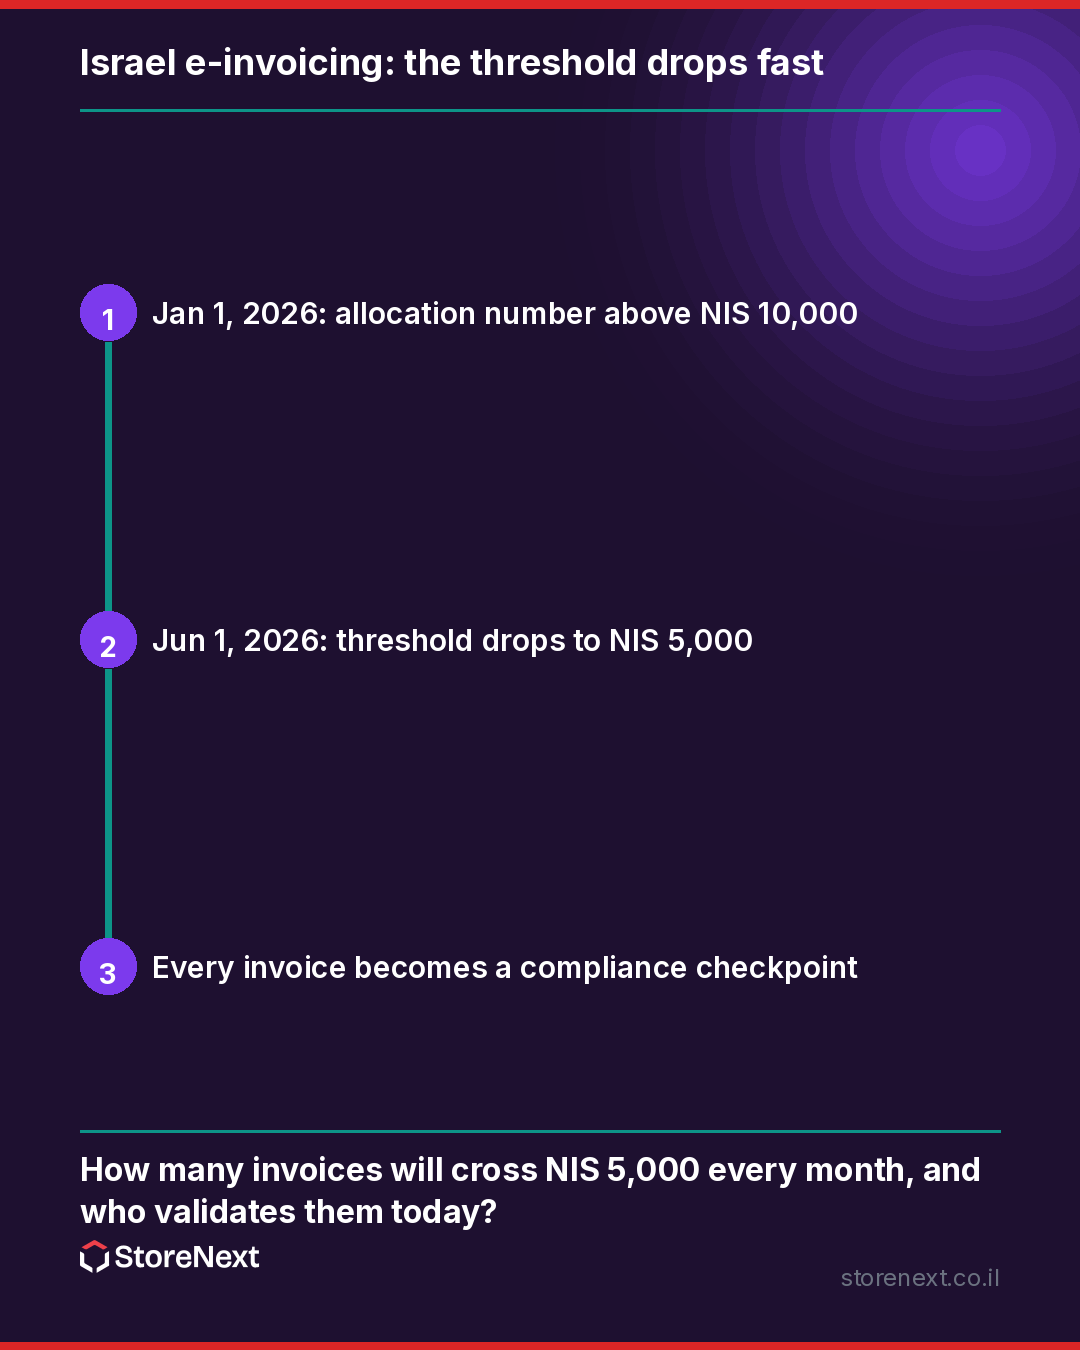
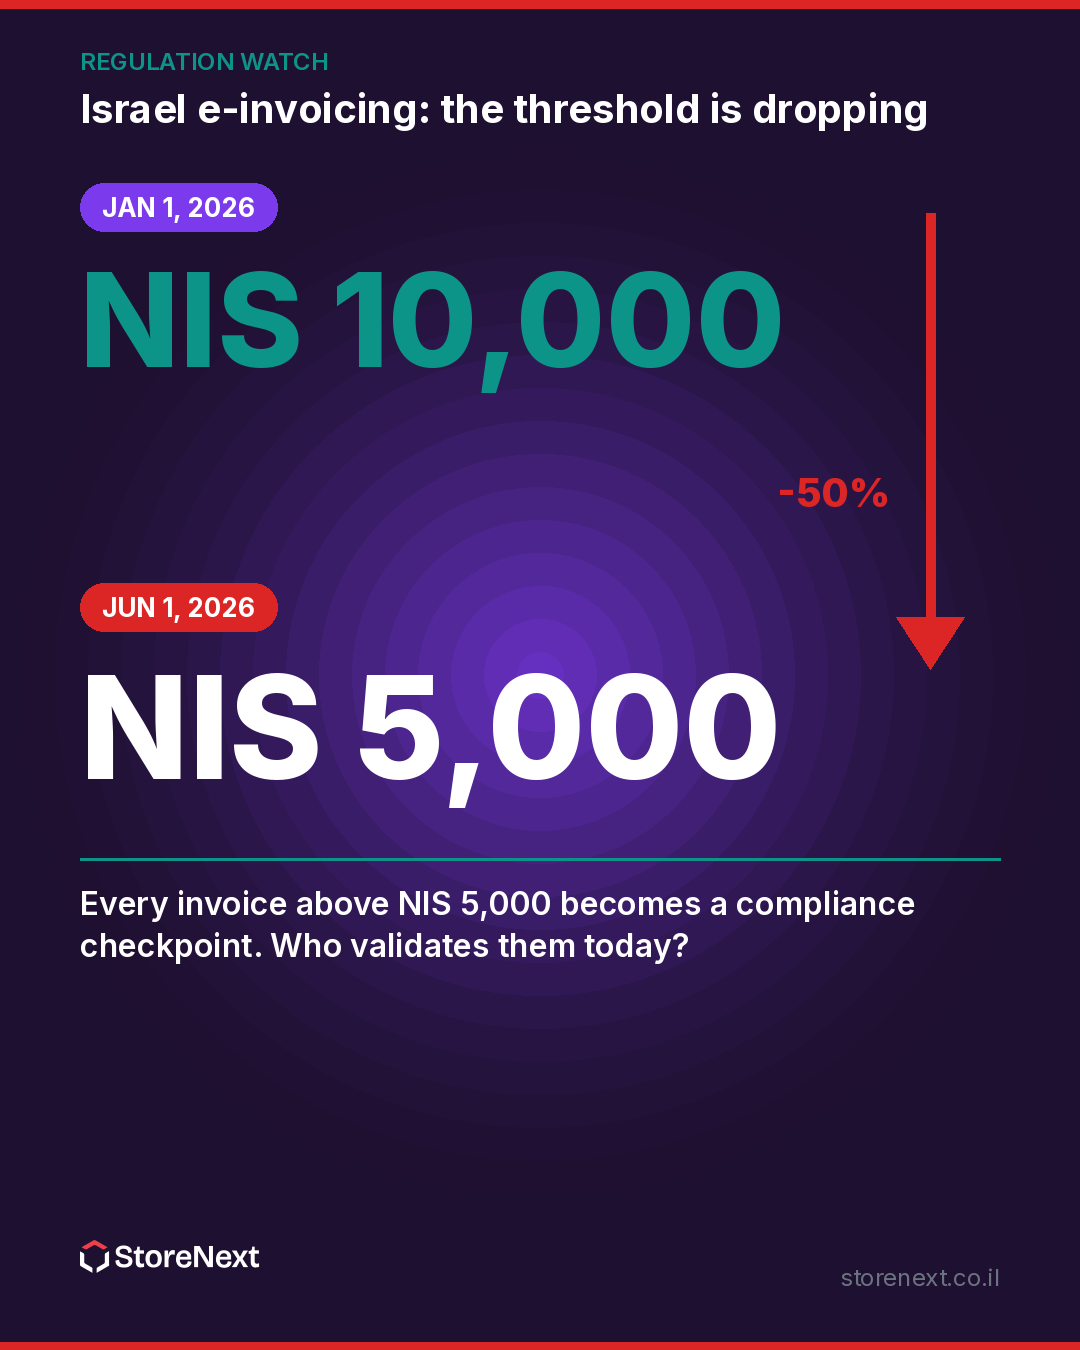
W28 e-invoicing: sync threshold_drop visual + generator to main

diff --git a/T-tools/generate-visual.py b/T-tools/generate-visual.py
@@ -47,7 +47,26 @@ def hex_to_rgb(h):
     h = h.lstrip("#")
     return tuple(int(h[i:i+2], 16) for i in (0, 2, 4))
 
-def load_font(size, bold=False):
+INTER_VAR_PATH = os.path.join(os.path.dirname(os.path.dirname(__file__)),
+                              "C-core", "fonts", "Inter-var.ttf")
+
+def load_font(size, bold=False, weight=None):
+    """Load Inter (variable) at the requested weight; fall back to DejaVu.
+
+    weight overrides bold. Inter weight names: Thin, ExtraLight, Light,
+    Regular, Medium, SemiBold, Bold, ExtraBold, Black.
+    """
+    target = weight or ("Bold" if bold else "Regular")
+    if os.path.exists(INTER_VAR_PATH):
+        try:
+            font = ImageFont.truetype(INTER_VAR_PATH, size)
+            try:
+                font.set_variation_by_name(target)
+            except Exception:
+                pass
+            return font
+        except Exception:
+            pass
     paths = [
         f"/usr/share/fonts/truetype/dejavu/DejaVuSans{'Bold' if bold else ''}.ttf",
         f"/usr/share/fonts/truetype/dejavu/DejaVuSans-{'Bold' if bold else 'Book'}.ttf",
@@ -62,11 +81,11 @@ def load_font(size, bold=False):
     return ImageFont.load_default()
 
 
-def fit_font(draw, text, max_width, max_size, bold=False, min_size=40):
+def fit_font(draw, text, max_width, max_size, bold=False, min_size=40, weight=None):
     """Reduce font size until text fits within max_width."""
     size = max_size
     while size >= min_size:
-        font = load_font(size, bold=bold)
+        font = load_font(size, bold=bold, weight=weight)
         bbox = draw.textbbox((0, 0), text, font=font)
         if bbox[2] - bbox[0] <= max_width:
             return font, size
@@ -174,14 +193,14 @@ def stat_card(post):
 
     # Metric
     metric = post.get("key_metric", "")
-    metric_font, _ = fit_font(draw, metric, W - MARGIN * 2, 180, bold=True, min_size=80)
+    metric_font, _ = fit_font(draw, metric, W - MARGIN * 2, 200, min_size=90, weight="ExtraBold")
     draw.text((MARGIN, 160), metric, font=metric_font, fill=hex_to_rgb(TEAL))
     metric_bbox = draw.textbbox((MARGIN, 160), metric, font=metric_font)
     metric_bottom = metric_bbox[3]
 
     # Topic label
     topic = post.get("topic", "")
-    label_font = load_font(32)
+    label_font = load_font(32, weight="Medium")
     draw.text((MARGIN, metric_bottom + 12), topic, font=label_font,
               fill=hex_to_rgb(MUTED_TEXT))
     label_bbox = draw.textbbox((MARGIN, metric_bottom + 12), topic, font=label_font)
@@ -203,7 +222,7 @@ def stat_card(post):
     badge = post.get("badge", "")
     pill_y = div_y + 28
     if badge:
-        badge_font = load_font(26)
+        badge_font = load_font(26, weight="SemiBold")
         badge_bbox = draw.textbbox((0, 0), badge, font=badge_font)
         bw = badge_bbox[2] - badge_bbox[0] + 48
         bh = 54
@@ -217,8 +236,8 @@ def stat_card(post):
 
     # Hook body
     hook = post.get("hook", "")
-    body_font = load_font(34)
-    body_bold_font = load_font(34, bold=True)
+    body_font = load_font(34, weight="Regular")
+    body_bold_font = load_font(34, weight="SemiBold")
     sentences = hook.split(". ")
     body_y = pill_y
     max_w = W - MARGIN * 2
@@ -246,7 +265,7 @@ def process_flow(post):
     draw.rectangle([0, 0, W, 8], fill=hex_to_rgb(CORAL_RED))
 
     # Topic title
-    title_font = load_font(34, bold=True)
+    title_font = load_font(36, weight="Bold")
     title_y = draw_text_left(draw, post.get("topic", ""), MARGIN, 40,
                              title_font, WHITE, W - MARGIN * 2)
 
@@ -264,7 +283,7 @@ def process_flow(post):
     if not steps:
         steps = ["Identify", "Automate", "Measure"]
 
-    step_font = load_font(30, bold=True)
+    step_font = load_font(30, weight="SemiBold")
     y = div_y + 40
     FOOTER_RESERVE = 220
     available = H - FOOTER_RESERVE - y
@@ -274,7 +293,7 @@ def process_flow(post):
         cy = y + step_h // 2
         draw.ellipse([MARGIN, cy - 28, MARGIN + 56, cy + 28],
                      fill=hex_to_rgb(BRAND_PURPLE))
-        num_font = load_font(28, bold=True)
+        num_font = load_font(28, weight="Bold")
         nb = draw.textbbox((0, 0), str(i + 1), font=num_font)
         draw.text((MARGIN + 28 - (nb[2] - nb[0]) // 2,
                    cy - (nb[3] - nb[1]) // 2),
@@ -288,7 +307,7 @@ def process_flow(post):
     # Hook block above footer
     hook_y = H - FOOTER_RESERVE + 10
     draw.rectangle([MARGIN, hook_y - 10, W - MARGIN, hook_y - 8], fill=hex_to_rgb(TEAL))
-    hook_font = load_font(32, bold=True)
+    hook_font = load_font(32, weight="Bold")
     draw_text_left(draw, post.get("hook", ""), MARGIN, hook_y + 10,
                    hook_font, WHITE, W - MARGIN * 2)
 
@@ -305,10 +324,10 @@ def quote_card(post):
 
     draw.rectangle([0, 0, W, 8], fill=hex_to_rgb(CORAL_RED))
 
-    q_font = load_font(180, bold=True)
+    q_font = load_font(180, weight="Black")
     draw.text((MARGIN - 10, 50), "“", font=q_font, fill=hex_to_rgb(BRAND_PURPLE))
 
-    hook_font = load_font(52, bold=True)
+    hook_font = load_font(52, weight="Bold")
     hook_y = draw_text_centered(draw, post.get("hook", ""), 260,
                                 hook_font, WHITE, max_width=W - MARGIN * 2)
 
@@ -319,7 +338,7 @@ def quote_card(post):
     if metric:
         div_y = hook_y + 120
         draw.rectangle([MARGIN, div_y, W - MARGIN, div_y + 2], fill=hex_to_rgb(TEAL))
-        m_font, _ = fit_font(draw, metric, W - MARGIN * 2, 100, bold=True, min_size=50)
+        m_font, _ = fit_font(draw, metric, W - MARGIN * 2, 100, min_size=50, weight="ExtraBold")
         m_bbox = draw.textbbox((0, 0), metric, font=m_font)
         mx = (W - (m_bbox[2] - m_bbox[0])) // 2
         draw.text((mx, div_y + 24), metric, font=m_font, fill=hex_to_rgb(TEAL))
@@ -340,10 +359,96 @@ def quote_card(post):
     return img
 
 
+def threshold_drop(post):
+    """Two date-anchored thresholds with a dramatic downward arrow between them.
+
+    Reads `visual_direction` as two milestone strings separated by '→':
+      "JAN 1, 2026 | NIS 10,000 → JUN 1, 2026 | NIS 5,000"
+    Each milestone is 'DATE LABEL | BIG VALUE'. Emphasis on the second (the drop).
+    """
+    img = Image.new("RGB", (W, H), hex_to_rgb(DEEP_PURPLE))
+    img = add_glow(img, cx=W // 2, cy=H // 2, radius=650,
+                   color_rgb=hex_to_rgb(BRAND_PURPLE), alpha_max=55)
+    draw = ImageDraw.Draw(img)
+
+    draw.rectangle([0, 0, W, 8], fill=hex_to_rgb(CORAL_RED))
+
+    # Kicker + title
+    kicker_font = load_font(24, weight="SemiBold")
+    draw.text((MARGIN, 46), post.get("category", "").upper(), font=kicker_font,
+              fill=hex_to_rgb(TEAL))
+    title_font = load_font(40, weight="Bold")
+    title_y = draw_text_left(draw, post.get("topic", ""), MARGIN, 84,
+                             title_font, WHITE, W - MARGIN * 2)
+
+    # Parse milestones
+    direction = post.get("visual_direction", "")
+    parts = [p.strip() for p in direction.split("→") if p.strip()]
+    milestones = []
+    for p in parts:
+        if "|" in p:
+            label, value = p.split("|", 1)
+            milestones.append((label.strip(), value.strip()))
+    if len(milestones) < 2:
+        milestones = [("JAN 1, 2026", "NIS 10,000"), ("JUN 1, 2026", "NIS 5,000")]
+
+    ARROW_ZONE = 200   # reserved column on the right for the arrow
+    val_max_w = W - MARGIN * 2 - ARROW_ZONE
+
+    def draw_milestone(cy, date_label, value, emphasis):
+        chip_font = load_font(26, weight="Bold")
+        cb = draw.textbbox((0, 0), date_label, font=chip_font)
+        cw = cb[2] - cb[0] + 44
+        chip_col = CORAL_RED if emphasis else BRAND_PURPLE
+        draw_rounded_rect(draw, [MARGIN, cy, MARGIN + cw, cy + 48],
+                          radius=24, fill=hex_to_rgb(chip_col))
+        draw.text((MARGIN + 22, cy + 8), date_label, font=chip_font, fill=WHITE)
+        # Big value (kept clear of the arrow column)
+        val_color = WHITE if emphasis else TEAL
+        val_font, _ = fit_font(draw, value, val_max_w, 150,
+                               min_size=72, weight="ExtraBold")
+        draw.text((MARGIN, cy + 58), value, font=val_font, fill=hex_to_rgb(val_color))
+        vb = draw.textbbox((MARGIN, cy + 58), value, font=val_font)
+        return vb[3]
+
+    y1 = title_y + 50
+    y1_bottom = draw_milestone(y1, milestones[0][0], milestones[0][1], emphasis=False)
+
+    y2 = y1_bottom + 190
+    y2_bottom = draw_milestone(y2, milestones[1][0], milestones[1][1], emphasis=True)
+
+    # Downward arrow spanning the two milestones, in the reserved right column
+    arrow_cx = W - MARGIN - 70
+    arrow_top = y1 + 30
+    arrow_bottom = y2 + 40
+    draw.line([(arrow_cx, arrow_top), (arrow_cx, arrow_bottom)],
+              fill=hex_to_rgb(CORAL_RED), width=10)
+    draw.polygon([(arrow_cx - 34, arrow_bottom - 6),
+                  (arrow_cx + 34, arrow_bottom - 6),
+                  (arrow_cx, arrow_bottom + 46)], fill=hex_to_rgb(CORAL_RED))
+    # Drop label in the gap between the two milestones, left of the arrow
+    drop_font = load_font(40, weight="ExtraBold")
+    dl = "-50%"
+    db = draw.textbbox((0, 0), dl, font=drop_font)
+    draw.text((arrow_cx - 40 - (db[2] - db[0]), (y1_bottom + y2) // 2 - 20),
+              dl, font=drop_font, fill=hex_to_rgb(CORAL_RED))
+
+    # Divider + consequence hook
+    div_y = y2_bottom + 50
+    draw.rectangle([MARGIN, div_y, W - MARGIN, div_y + 2], fill=hex_to_rgb(TEAL))
+    hook_font = load_font(32, weight="SemiBold")
+    draw_text_left(draw, post.get("hook", ""), MARGIN, div_y + 26,
+                   hook_font, WHITE, W - MARGIN * 2)
+
+    _draw_footer(img, draw)
+    return img
+
+
 GENERATORS = {
-    "stat_card":    stat_card,
-    "process_flow": process_flow,
-    "quote_card":   quote_card,
+    "stat_card":      stat_card,
+    "process_flow":   process_flow,
+    "quote_card":     quote_card,
+    "threshold_drop": threshold_drop,
 }
 
 def main():
